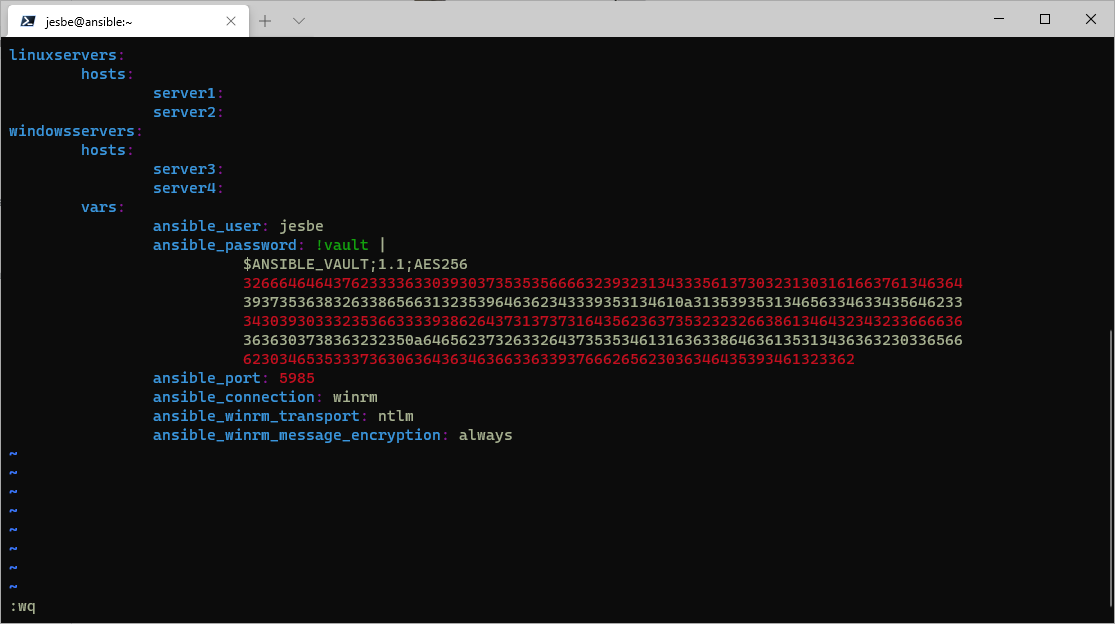
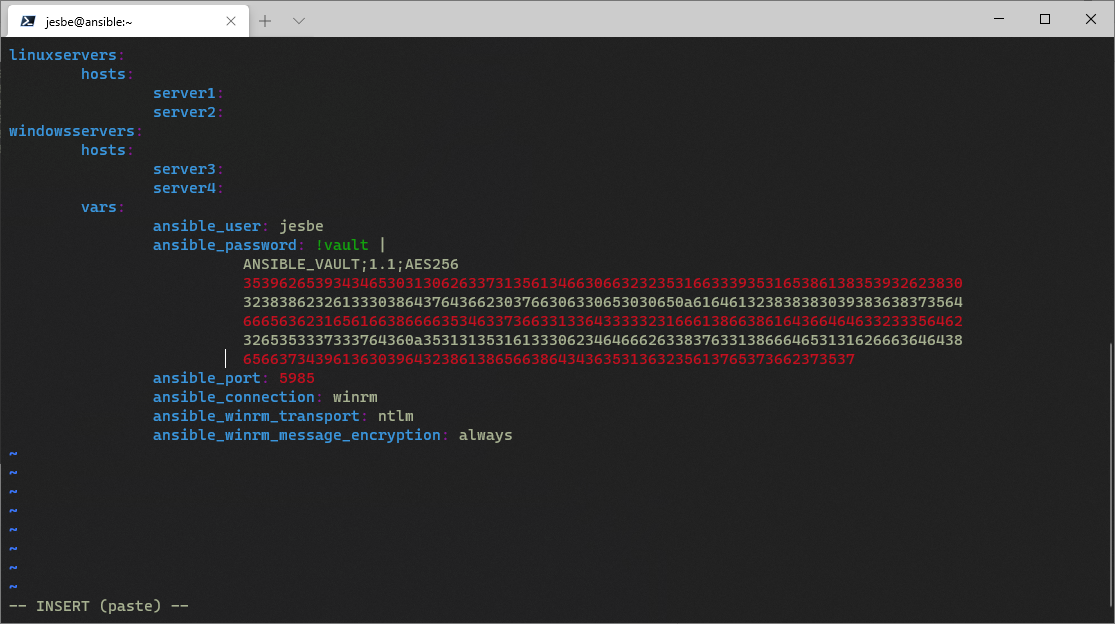
lab02 updated

Changed region(s): [[0.2135, 0.3958, 0.8843, 0.609], [0.0, 0.9439, 0.1525, 1.0]]

diff --git a/lab02/lab2.md b/lab02/lab2.md
@@ -530,7 +530,7 @@ vi ansible-hosts.yml
 
 Hit Esc-key
 
-:set paste
+:set paste <Hit Enter>
 
 Hit Esc-key
 
@@ -591,7 +591,7 @@ ansible linuxservers -m ping
 
 In this task we will encrypt the password for the windows servers and place it in the new yaml inventory file
 
-Encrypt you password 
+Encrypt you password
 
 __Type:__
 
@@ -605,17 +605,27 @@ ansible-vault encrypt_string 'SomeThingSimple8' --name ansible_password
 
 Copy the string
 
+![Alt text](pics/041_ansible_vault_string_copy.png?raw=true "Encrypt string copy")
+
+Paste the encryptet string into ansible-hosts.yml
+
+When copied you might need to indent the lines with spaces so it placed under the first S in password, se the picture
+
 ```bash
 
 cd
 
 vi ansible-hosts.yml
 
-i (for input)
+Hit Esc-key
+
+:set paste <Hit Enter>
+
+Hit Esc-key
+
+i (to toggle insert)
 
 ```
-
-![Alt text](pics/041_ansible_vault_string_copy.png?raw=true "Encrypt string copy")
 
 Save the inventory file
 
